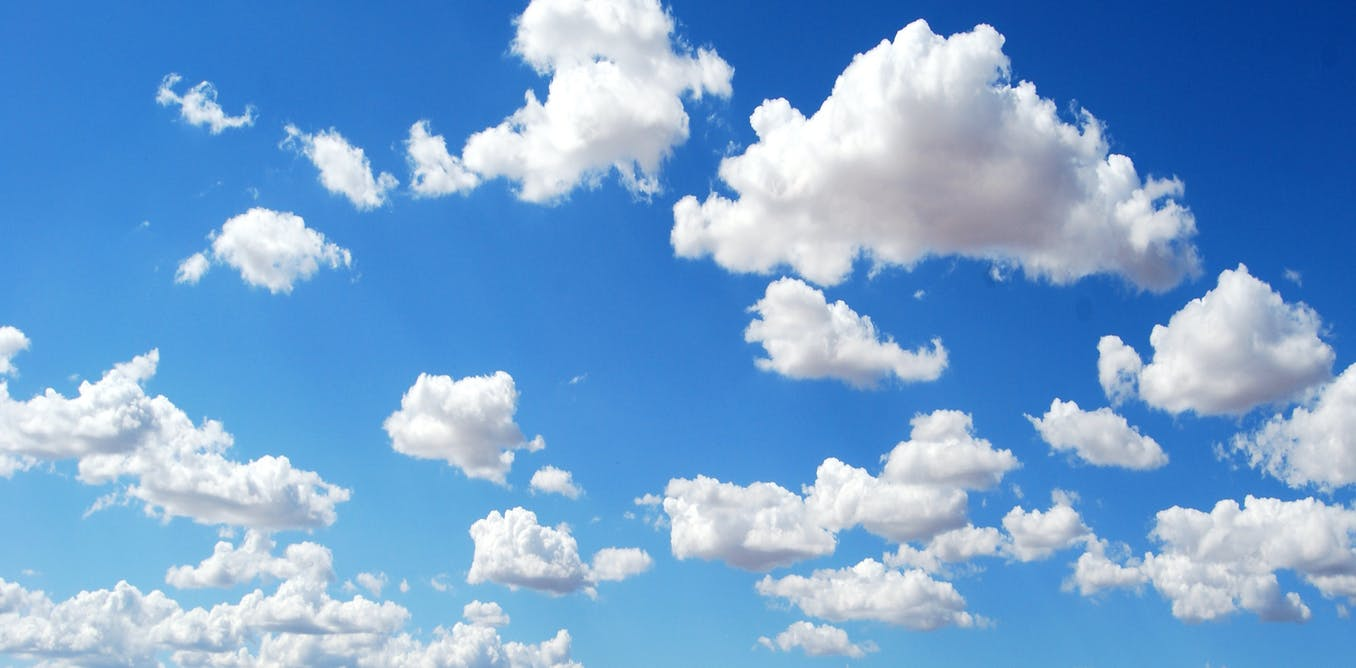
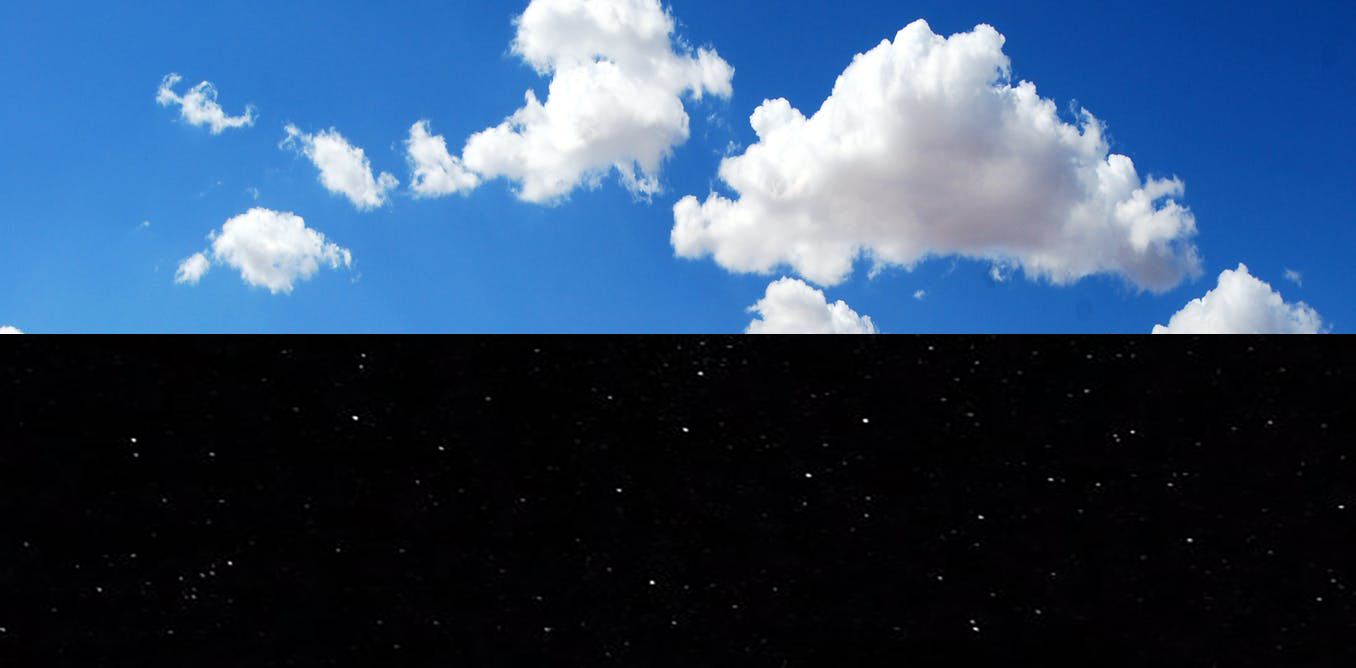
Added Day/Night Cycle

diff --git a/main.py b/main.py
@@ -6,11 +6,15 @@ from random import randint
 from ursina.prefabs.first_person_controller import FirstPersonController
 noise = PerlinNoise(octaves=2, seed=2123)
 flat = input('Is world flat? (y/n)\n\n')
-day = input('Is Day time? (y/n)\n\n')
 
 app = Ursina()
 currentItem = 1
 player = FirstPersonController()
+
+sky = Entity(parent=scene, model='sphere',
+             texture='assets/sky.png',
+             scale=150,
+             double_sided=True)
 
 
 def update():
@@ -37,6 +41,7 @@ def update():
         currentItem = 4
     if held_keys['5']:
         currentItem = 5
+    sky.rotation_x += 0.01
 
 
 class Block(Button):
@@ -104,15 +109,5 @@ class makeTree():
                         scale=1)
 
 
-if day == 'y':
-    sky = Entity(parent=scene, model='sphere',
-                 texture='assets/day.jpeg',
-                 scale=150,
-                 double_sided=True)
-elif day == 'n':
-    sky = Entity(parent=scene, model='sphere',
-                 texture='assets/night.jpeg',
-                 scale=150,
-                 double_sided=True)
 sky.visible = TRUE
 app.run()
